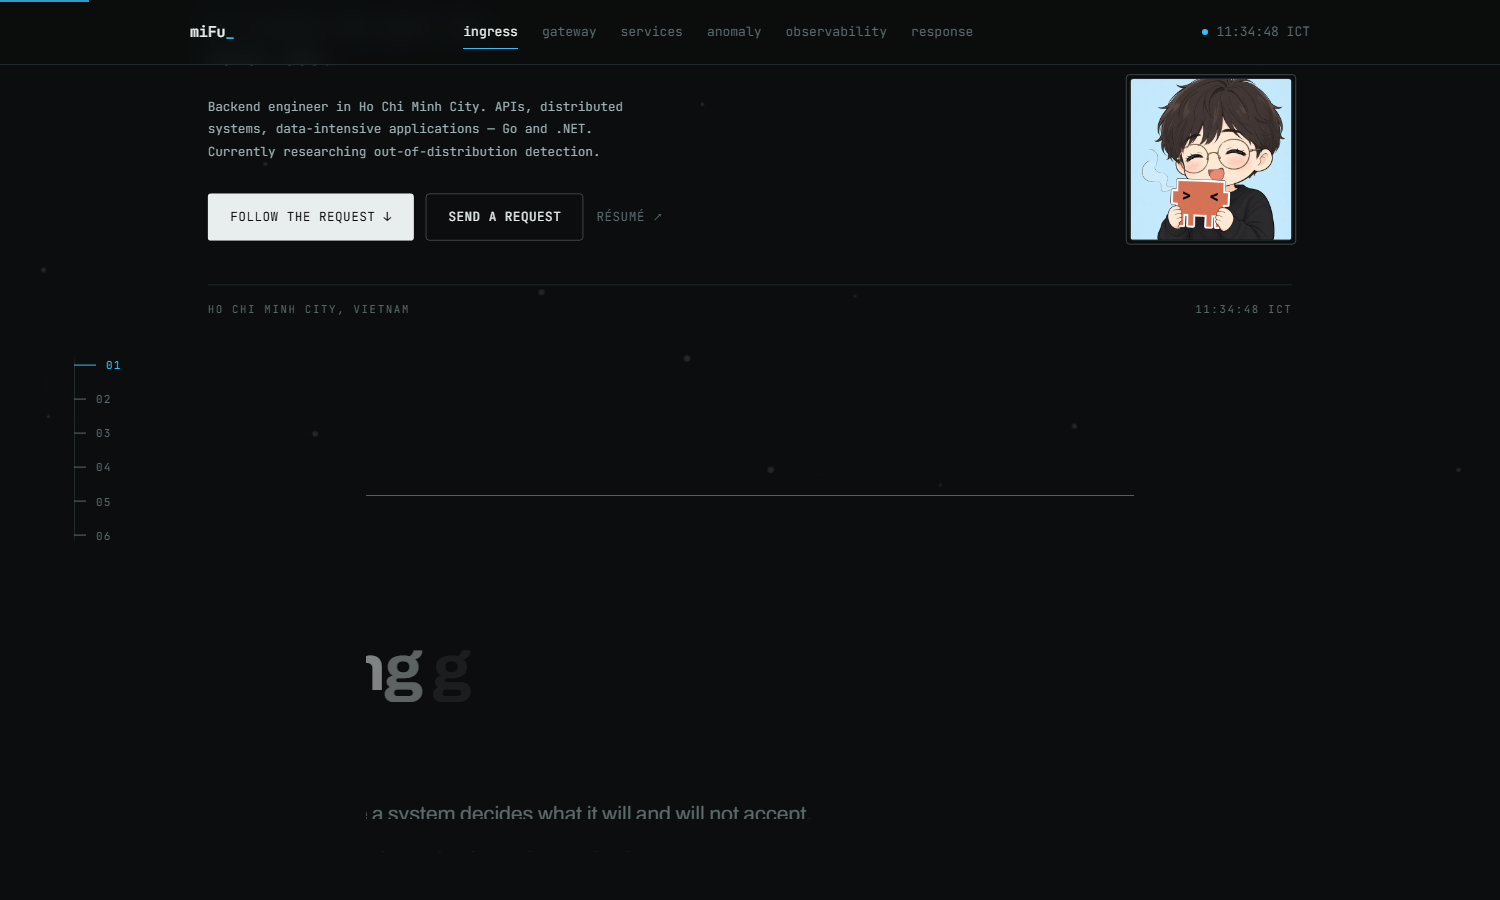
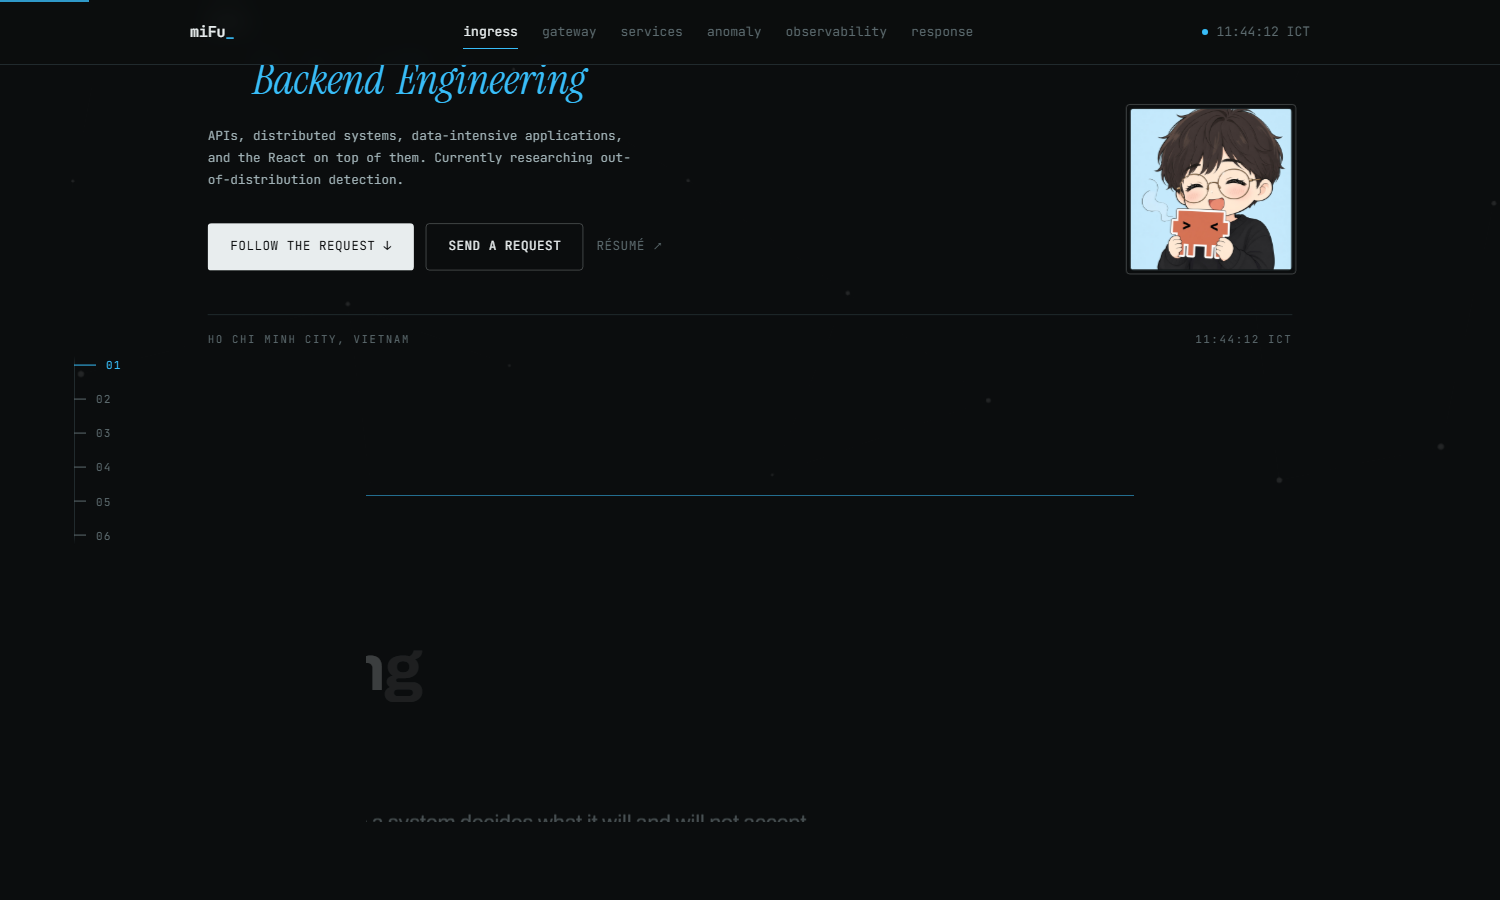
feat(hero): a claim that types itself, and a role that swaps one word
The claim is now three sentences on a loop: typed at 50ms a character, held
about eight seconds, then dissolved a character at a time rather than deleted,
so leaving reads as the line melting instead of being backspaced. The characters
are spans written straight into the node, because a React render every 50ms for
a text node is a cost with nothing to show for it.

Under it, the role line splits into a word that changes and a tail that does
not: Backend, FullStack, AI, Frontend, then Engineering. The tail holds its
position because the slot is right-aligned and as wide as the longest word, and
a harness check measures its left edge before and after a swap to keep it that
way. The role is set in Instrument Serif, italic, in the signal colour, so it
reads as a different voice from the grotesque display and the mono.

The claim's box is held at two lines so the hero under it does not breathe, and
the visible copy is aria-hidden with the whole line in a visually hidden span,
because a screen reader reading a half-typed sentence is a failure.

Verification: pnpm scroll, 39 checks, all passing. New: the claim types and moves
to the next line with its box the same height both times, and the role swaps one
word while its tail stays at 411px.

diff --git a/src/components/ui/Typewriter.tsx b/src/components/ui/Typewriter.tsx
@@ -1,0 +1,110 @@
+import { useEffect, useRef, useState } from 'react';
+import { useReducedMotion } from '../../hooks/useReducedMotion';
+
+interface TypewriterProps {
+  lines: readonly string[];
+  /** Milliseconds per typed character. */
+  typeMs?: number;
+  /** How long a finished line is left on screen. */
+  holdMs?: number;
+  /** Milliseconds between two characters leaving on the way out. */
+  eraseMs?: number;
+}
+
+/** How long a character takes to fade once it starts leaving. */
+const FADE_MS = 210;
+
+/**
+ * A line of text that types itself, holds, dissolves a character at a time and
+ * moves to the next one.
+ *
+ * Characters are written straight into the node as spans rather than held in
+ * state: one every 50ms through React would re-render this tree twenty times a
+ * second for no reason. Leaving by fade instead of by deletion is what makes the
+ * line read as dissolving rather than as being backspaced, and the spans are
+ * what makes that possible.
+ *
+ * The full current line sits beside the visible one in a visually hidden span,
+ * because a screen reader reading a half-typed sentence is a failure, and
+ * reduced motion gets the first line and no caret at all.
+ */
+const Typewriter = ({
+  lines,
+  typeMs = 50,
+  holdMs = 8000,
+  eraseMs = 40,
+}: TypewriterProps) => {
+  const ref = useRef<HTMLSpanElement | null>(null);
+  const reduced = useReducedMotion();
+  const [spoken, setSpoken] = useState(lines[0] ?? '');
+
+  useEffect(() => {
+    if (reduced || lines.length === 0) return;
+
+    const node = ref.current;
+    if (!node) return;
+
+    const glyphs: HTMLSpanElement[] = [];
+    let line = 0;
+    let timer = 0;
+    let cancelled = false;
+
+    node.textContent = '';
+
+    const type = () => {
+      if (cancelled) return;
+      const text = lines[line];
+
+      if (glyphs.length < text.length) {
+        const glyph = document.createElement('span');
+        glyph.className = 'hero__gl';
+        glyph.textContent = text[glyphs.length];
+        node.append(glyph);
+        glyphs.push(glyph);
+        timer = window.setTimeout(type, typeMs);
+        return;
+      }
+
+      setSpoken(text);
+      timer = window.setTimeout(erase, holdMs);
+    };
+
+    const erase = () => {
+      if (cancelled) return;
+      const glyph = glyphs.pop();
+
+      if (glyph) {
+        glyph.classList.add('is-out');
+        timer = window.setTimeout(erase, eraseMs);
+        return;
+      }
+
+      node.textContent = '';
+      timer = window.setTimeout(() => {
+        if (cancelled) return;
+        line = (line + 1) % lines.length;
+        type();
+      }, FADE_MS);
+    };
+
+    timer = window.setTimeout(type, typeMs * 3);
+
+    return () => {
+      cancelled = true;
+      window.clearTimeout(timer);
+      node.textContent = lines[0] ?? '';
+    };
+  }, [lines, typeMs, holdMs, eraseMs, reduced]);
+
+  return (
+    <span>
+      <span ref={ref} aria-hidden="true">
+        {lines[0] ?? ''}
+      </span>
+      <i className="hero__caret" aria-hidden="true" />
+      <span className="sr-only">{spoken}</span>
+    </span>
+  );
+};
+
+export default Typewriter;

diff --git a/src/styles/app.css b/src/styles/app.css
@@ -484,7 +484,9 @@
   color: var(--text-body);
 }
 
-/* The claim is machine output in this skin: a shell line, not a headline. */
+/* The claim is machine output in this skin: a shell line, not a headline. It
+   types itself through three lines, so the box is kept two lines tall whatever
+   the current line measures, or the hero under it would breathe on every swap. */
 .hero__claim {
   font-family: var(--font-mono);
   font-size: var(--fs-lead);
@@ -492,12 +494,92 @@
   color: var(--text-body);
   line-height: 1.5;
   margin-top: var(--sp-6);
-  max-width: 26ch;
+  max-width: 34ch;
+  min-height: 3em;
 }
 
 .hero__claim::before {
   content: '$ ';
   color: var(--signal);
+}
+
+.hero__caret {
+  display: inline-block;
+  width: 0.42em;
+  height: 1em;
+  margin-left: 0.14em;
+  vertical-align: -0.16em;
+  background: var(--signal);
+  animation: caretBlink 940ms steps(1, end) infinite;
+}
+
+/* The role is the one line on the page that says what the work is rather than
+   what the page is, so it gets its own voice: a serif italic, in the signal
+   colour, against the grotesque display and the mono. Only the first word
+   changes; the slot is right-aligned and as wide as the longest of them, so the
+   word after it never shifts. */
+.hero__role {
+  display: flex;
+  align-items: baseline;
+  gap: 0.3em;
+  margin-top: var(--sp-6);
+  font-family: var(--font-role);
+  font-style: italic;
+  font-size: clamp(1.75rem, 3.4vw, 2.75rem);
+  line-height: 1.05;
+  color: var(--signal);
+}
+
+.hero__role__slot {
+  display: inline-block;
+  min-width: 9ch;
+  text-align: right;
+}
+
+.hero__role__in {
+  display: inline-block;
+  animation: roleSwap 620ms var(--ease-out) both;
+}
+
+@keyframes roleSwap {
+  from {
+    opacity: 0;
+    transform: translateY(0.42em);
+  }
+}
+
+/* A typed character. It appears instantly and leaves by fading, so erasing reads
+   as the line dissolving rather than as text being deleted. */
+.hero__gl {
+  transition: opacity 200ms var(--ease-out);
+}
+
+.hero__gl.is-out {
+  opacity: 0;
+}
+
+/* Read by a screen reader, never seen: the typewriter writes half-typed
+   sentences into the DOM, so the full line lives here instead. */
+.sr-only {
+  position: absolute;
+  width: 1px;
+  height: 1px;
+  margin: -1px;
+  padding: 0;
+  overflow: hidden;
+  clip-path: inset(50%);
+  white-space: nowrap;
+  border: 0;
+}
+
+@media (prefers-reduced-motion: reduce) {
+  .hero__caret {
+    display: none;
+  }
+
+  .hero__role__in {
+    animation: none;
+  }
 }
 
 .hero__lead {

diff --git a/src/features/hero/components/Hero.tsx b/src/features/hero/components/Hero.tsx
@@ -2,6 +2,8 @@ import { PROFILE, chapter } from '../../../config/content';
 import { useClock } from '../../../hooks/useClock';
 import Reveal from '../../../components/ui/Reveal';
 import TopologyCanvas from '../../../components/layout/TopologyCanvas';
+import Typewriter from '../../../components/ui/Typewriter';
+import { useRotatingIndex } from '../../../hooks/useRotatingIndex';
 import portrait from '../../../assets/mp-chibi.jpg';
 import resumePdf from '../../../assets/ttmp_cv.pdf';
 
@@ -12,6 +14,7 @@ const RESPONSE = chapter('response');
 
 const Hero = () => {
   const clock = useClock(7);
+  const role = useRotatingIndex(PROFILE.roles.length, 3400);
 
   return (
     <section id={HERO.id} className="hero">
@@ -34,7 +37,20 @@ const Hero = () => {
               {PROFILE.name}
             </Reveal>
             <Reveal as="p" delay={80} className="hero__claim">
-              {PROFILE.claim}
+              <Typewriter lines={PROFILE.claims} />
+            </Reveal>
+            <Reveal as="p" delay={120} className="hero__role">
+              <span className="hero__role__slot" aria-hidden="true">
+                <span key={role} className="hero__role__in">
+                  {PROFILE.roles[role]}
+                </span>
+              </span>
+              <span className="hero__role__tail" aria-hidden="true">
+                {PROFILE.roleTail}
+              </span>
+              <span className="sr-only">
+                {PROFILE.roles[role]} {PROFILE.roleTail}
+              </span>
             </Reveal>
             <Reveal as="p" delay={160} className="lead hero__lead">
               {PROFILE.lead}

diff --git a/src/config/content.ts b/src/config/content.ts
@@ -25,16 +25,23 @@ import type {
 export const PROFILE = {
   name: 'Than Trinh Minh Phuc',
   alias: 'miFu',
-  role: 'Backend Software Engineer',
+  role: 'Fullstack Software Engineer',
   location: 'Ho Chi Minh City, Vietnam',
   timezone: 'ICT',
   email: 'phucttm.dev@gmail.com',
   phone: '+84 375 331 022',
   github: 'https://github.com/miFu278',
   availability: 'Available for work — Q3 2026',
-  /** Hero display line. Not a job title: a claim. */
-  claim: 'I build the part you never see.',
-  lead: 'Backend engineer in Ho Chi Minh City. APIs, distributed systems, data-intensive applications — Go and .NET. Currently researching out-of-distribution detection.',
+  /** Hero display lines. Not a job title: a claim. The hero types through them. */
+  claims: [
+    'I build the part you never see.',
+    'I build the API the screen talks to.',
+    'I build the screen that explains it.',
+  ],
+  /** What the hero cycles through under the claim. The tail word never moves. */
+  roles: ['Backend', 'FullStack', 'AI', 'Frontend'],
+  roleTail: 'Engineering',
+  lead: 'APIs, distributed systems, data-intensive applications, and the React on top of them. Currently researching out-of-distribution detection.',
   siteUrl: 'https://portfolio.mifu278.workers.dev',
 } as const;
 

diff --git a/src/hooks/useRotatingIndex.ts b/src/hooks/useRotatingIndex.ts
@@ -1,0 +1,22 @@
+import { useEffect, useState } from 'react';
+import { useReducedMotion } from './useReducedMotion';
+
+/**
+ * Cycles an index from 0 to `length - 1`, one step every `ms`.
+ *
+ * Stops under reduced motion, where the first item is the whole story. A step
+ * every few seconds is slow enough that state is the right place for it: this is
+ * not a per-frame signal.
+ */
+export const useRotatingIndex = (length: number, ms: number): number => {
+  const reduced = useReducedMotion();
+  const [index, setIndex] = useState(0);
+
+  useEffect(() => {
+    if (reduced || length <= 1) return;
+    const timer = window.setInterval(() => setIndex((i) => (i + 1) % length), ms);
+    return () => window.clearInterval(timer);
+  }, [length, ms, reduced]);
+
+  return index;
+};

diff --git a/index.html b/index.html
@@ -31,7 +31,7 @@
   <link rel="preconnect" href="https://fonts.googleapis.com" />
   <link rel="preconnect" href="https://fonts.gstatic.com" crossorigin />
   <link
-    href="https://fonts.googleapis.com/css2?family=Archivo:wght@400;500;600;700&family=JetBrains+Mono:wght@400;500&display=swap"
+    href="https://fonts.googleapis.com/css2?family=Archivo:wght@400;500;600;700&family=Instrument+Serif:ital@0;1&family=JetBrains+Mono:wght@400;500&display=swap"
     rel="stylesheet" />
 
   <script type="application/ld+json" id="person-jsonld">{}</script>

diff --git a/src/styles/tokens.css b/src/styles/tokens.css
@@ -30,6 +30,9 @@
 
   /* -- type ---------------------------------------------------------------- */
   --font-display: 'Archivo', system-ui, -apple-system, sans-serif;
+  /* A serif only the hero's role line uses, so it reads as a different voice
+     rather than as another weight of the same one. */
+  --font-role: 'Instrument Serif', Georgia, serif;
   --font-mono: 'JetBrains Mono', ui-monospace, 'SF Mono', Menlo, monospace;
   --fs-display-xl: clamp(2.75rem, 9vw, 7.5rem);
   --fs-display-l: clamp(2rem, 5vw, 4rem);
